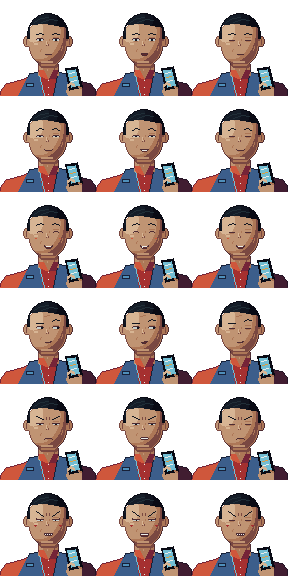
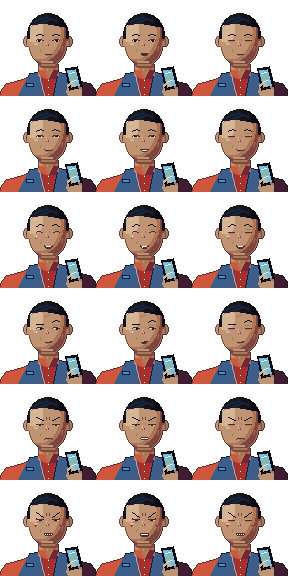
Ли Вэй: глаза уже — узкий миндаль без складки века, тёмная радужка, во всех эмоциях

diff --git a/tools/art/china.py b/tools/art/china.py
@@ -3,6 +3,25 @@ import numpy as np
 from people import Face, SKIN_MID, builder
 from pixel import band, ellipse_mask, grid, line, paint, poly_mask, put, shade_ellipsoid
 
+# Глаза уже, чем у общего набора: узкий миндаль, верхнее веко без складки, тёмная радужка почти во весь разрез,
+# внешний уголок на точку выше внутреннего. Левый глаз; правый зеркалим (кроме взгляда в сторону).
+EYES = {
+    'open':   ['........', '.LLLLL..', 'LwpppwLL', '..ppw...'],
+    'smile':  ['........', '.LLLLLL.', 'LwpppwLL', '.hhhhhh.'],
+    'narrow': ['........', '........', 'LLLLLLLL', '.wwppws.'],
+    'side':   ['........', '.LLLLL..', 'LwwwppLL', '....pp..'],
+    'closed': ['........', '........', 'LLLLLLL.', '..ssss..'],
+    'arc':    ['........', '.LLLL...', 'L....LL.', '........'],
+    'glare':  ['L.......', 'LLLLLLLL', '.wwppL..', '.ssssss.'],
+}
+EYE_STATE = {'neutral': 'open', 'pleased': 'smile', 'happy': 'arc', 'thinking': 'side', 'annoyed': 'narrow', 'angry': 'glare'}
+
+
+def eyes(c, E, eyL, eyR, ey, emotion, frame):
+    st = 'closed' if frame == 'blink' else EYE_STATE[emotion]
+    put(c, eyL, ey, EYES[st], E)
+    put(c, eyR, ey, EYES[st], E, flip=(st != 'side'))
+
 
 def spec():
     face = Face(top=16, cy=38, rx=20, jaw_y=55, jaw_w=17, chin_y=65, chin_w=8, cheek=2.3)
@@ -46,7 +65,7 @@ def spec():
         line(c, [(78, 86), (81, 87)], p['skin'][1], thick=2)
 
     return dict(face=face, skin=SKIN_MID, ey=38, age=38, female=False, neck=9,
-                nose='small', shoulders=42, brow=(37, 1), pupil=37,
+                nose='small', shoulders=42, brow=(37, 1), brow_dy=1, pupil=37, eyes=eyes,
                 body=body, collar=collar, hair=hair, extra=extra, forehead=False)
 
 
